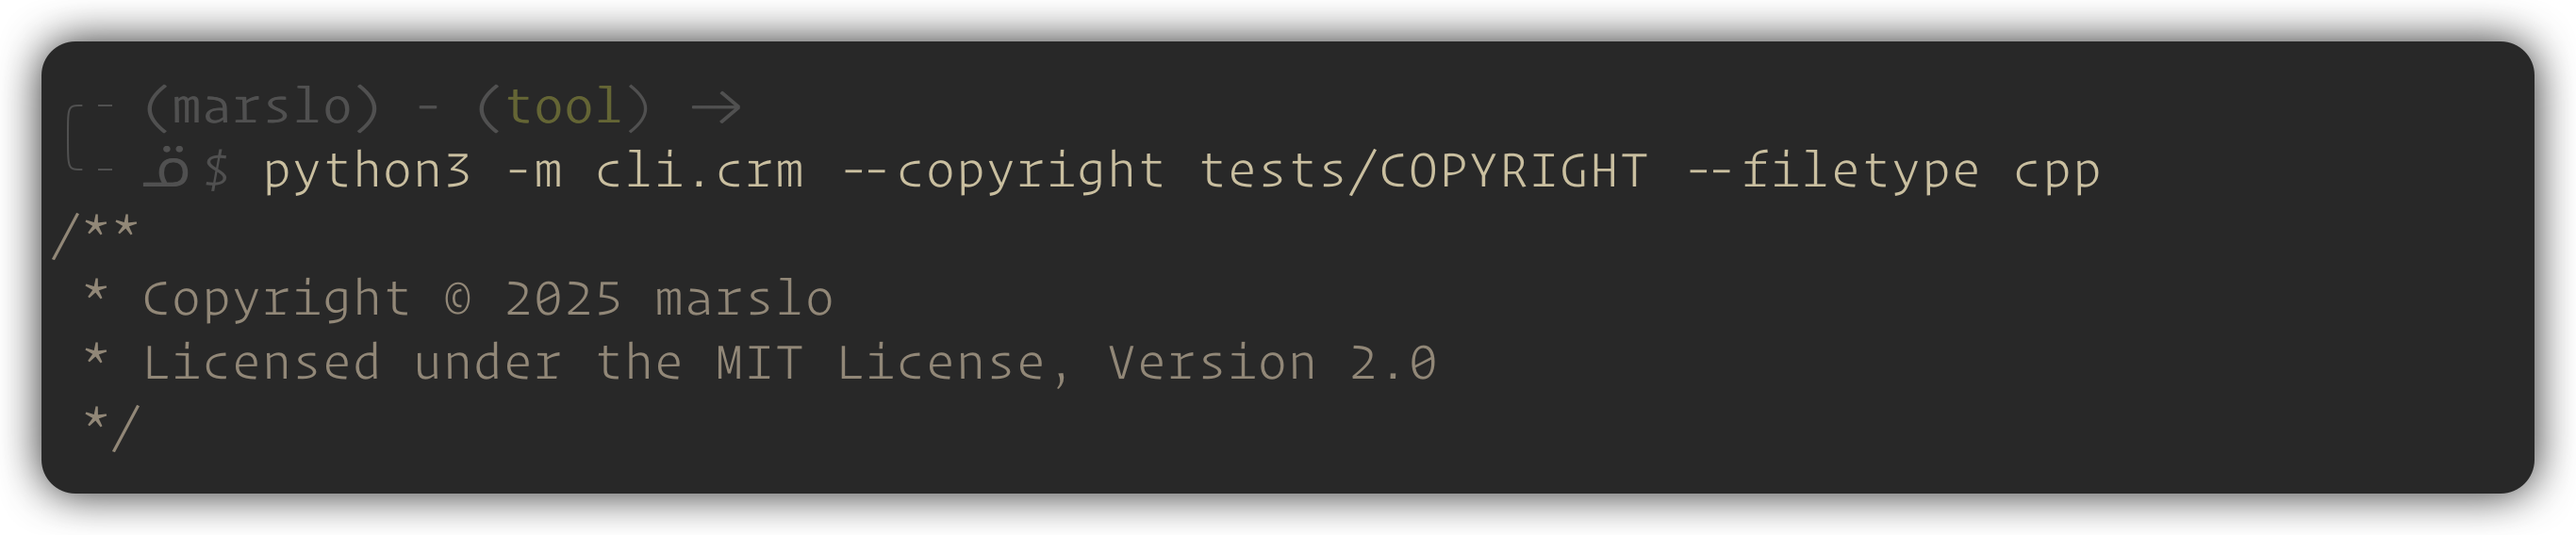
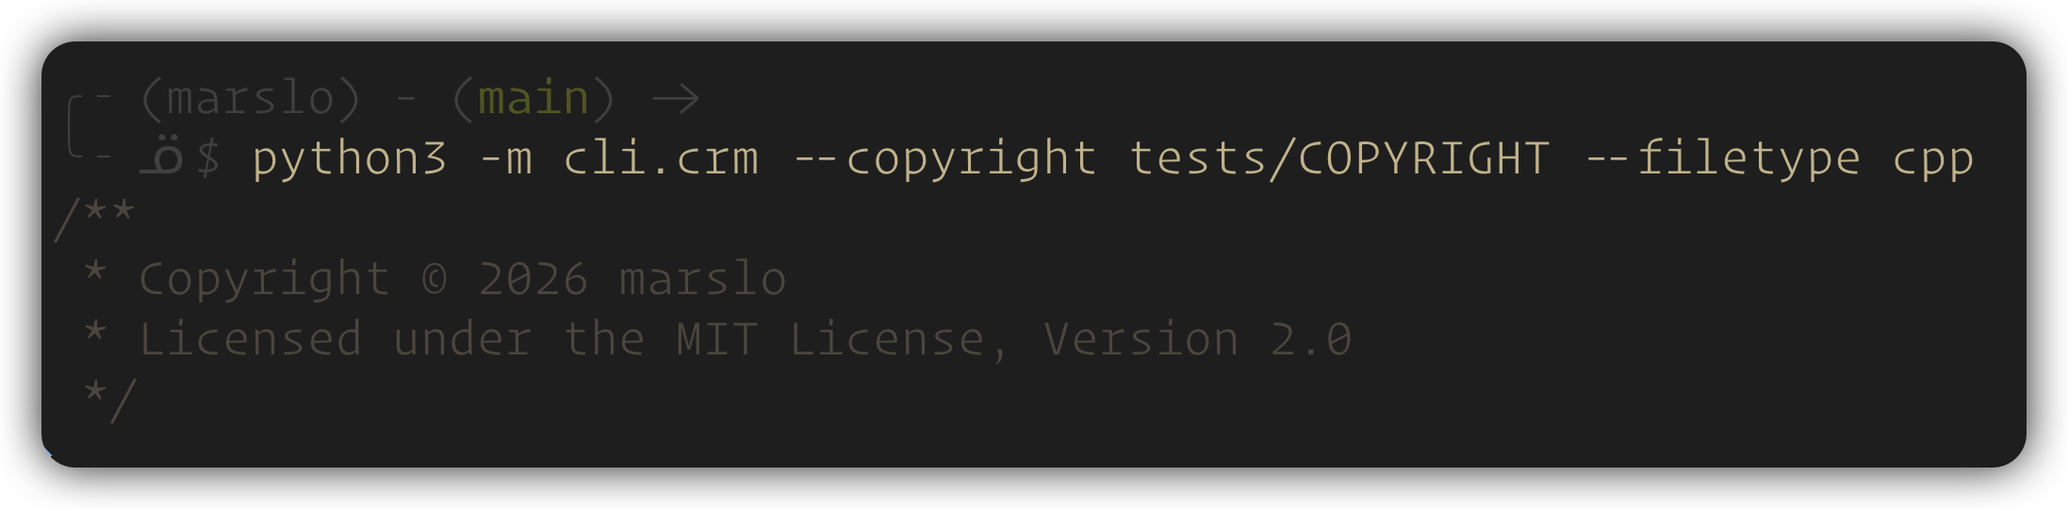
docs(readme): update README file, and upgraded the typo pre-commit hook version to `v1.43.3`

diff --git a/README.md b/README.md
@@ -55,15 +55,19 @@ A tool to automatically **add**, **update**, or **delete** multi-format copyrigh
 
 ## Install as Binary
 
--  pipx
-  > [!TIP]
-  > - pipx installation
-  >   ```bash
-  >   $ python3 -m pip install pipx
-  >   $ python3 -m pipx ensurepath
-  >   ```
+- pipx
+
+  <details>
+  <summary><b>how to install pipx ...</b></summary>
 
   ```bash
+  $ python3 -m pip install pipx
+  $ python3 -m pipx ensurepath
+  ```
+  </details>
+
+  ```bash
+  # install from source
   $ pipx install --force "git+https://github.com/marslo/cr-manager"
   # upgrade
   $ pipx upgrade cr-manager
@@ -73,12 +77,16 @@ A tool to automatically **add**, **update**, or **delete** multi-format copyrigh
 
 - pip
   ```bash
+  # install from pypi
   $ python3 -m pip install --user cr-manager
   # upgrade
   $ python3 -m pip install --user --upgrade cr-manager
   ```
 
 - linux/macos binary
+  <details>
+  <summary><b>Click to expand ...</b></summary>
+
   ```bash
   $ VERSION="$(curl -fsSL https://api.github.com/repos/marslo/cr-manager/releases/latest | jq -r .tag_name)"
 
@@ -90,49 +98,69 @@ A tool to automatically **add**, **update**, or **delete** multi-format copyrigh
   $ curl -fsSL -o cr-manager https://github.com/marslo/cr-manager/releases/download/${VERSION}/cr-manager-macos
   $ chmod +x cr-manager
   ```
+  </details>
 
 - windows binary
+
+  <details>
+  <summary><b>Click to expand ...</b></summary>
+
   ```bash
   > powershell -NoProfile -Command "$v=(Invoke-WebRequest -Uri 'https://api.github.com/repos/marslo/cr-manager/releases/latest' -UseBasicParsing | ConvertFrom-Json).tag_name; Invoke-WebRequest -Uri ('https://github.com/marslo/cr-manager/releases/download/'+$v+'/cr-manager.exe') -OutFile 'cr-manager.exe'; Write-Host ('Downloaded '+$v)"
   ```
+  </details>
+
 
 ## Install as pre-commit Hook
-```yaml
-# if `COPYRIGHT` file can be found in the root directory of this repository
----
-repos:
-  - repo: https://github.com/marslo/cr-manager
-    rev: v3.0.5
-    hooks:
-      - id: cr-manager
-        args: ["--update"]
-```
 
 ```yaml
 # specify the `COPYRIGHT` file to use, and only check specific files/folders
 ---
 repos:
   - repo: https://github.com/marslo/cr-manager
-    rev: v3.0.5
+    rev: v3.1.0
     hooks:
       - id: cr-manager
-        args: ["--update", "--copyright", "/path/to/COPYRIGHT"]
+        args: ["--update", "--copyright", "path/to/COPYRIGHT"]
         files: ^(jenkinsfile/|.*\.(groovy|py|sh)$)
 ```
+
+<details>
+<summary>if <code>COPYRIGHT</code> file can be found in the root directory of this repository</summary>
+
+```yaml
+# if `COPYRIGHT` file can be found in the root directory of this repository
+---
+repos:
+  - repo: https://github.com/marslo/cr-manager
+    rev: v3.1.0
+    hooks:
+      - id: cr-manager
+        args: ["--update"]
+```
+</details>
+
+
+<details>
+<summary>only check the copyright headers without modifying files after commit - <b>post-commit</b> check</summary>
 
 ```yaml
 # only check the copyright headers without modifying files after commit
 ---
 repos:
   - repo: https://github.com/marslo/cr-manager
-    rev: v3.0.5
+    rev: v3.1.0
     hooks:
       - id: cr-manager
         args: ["--check"]
         stages: [post-commit]
 ```
+</details>
 
 ## Install as Local Package
+
+<details>
+<summary><b>install from local source repo ...</b></summary>
 
 ```bash
 # clone the repo
@@ -147,6 +175,7 @@ $ python3 -m pip install --upgrade --user --editable .
 # or install via pipx
 $ pipx install --editable [--force] .
 ```
+</details>
 
 ---
 
@@ -173,20 +202,18 @@ $ pipx install --editable [--force] .
 |:---------------------------------------------:|:---------------------------:|
 | `python`, `shell`, `bash`, `sh`, `dockerfile` | `.py`, `.sh`, `.dockerfile` |
 
-```
+```bash
 # without venv
 $ poetry run cr-manager --filetype python
 
-# with venv
+# with venv or install as binary
 $ cr-manager --filetype python
-```
 
-result
-```
-#===============================================================================
-# Copyright © 2025 marslo                                                      #
+# result
+# ============================================================================ #
+# Copyright © 2026 marslo                                                      #
 # Licensed under the MIT License, Version 2.0                                  #
-#===============================================================================
+# ============================================================================ #
 ```
 
 ![Python](./screenshots/ft-py.png)
@@ -201,15 +228,13 @@ result
 # without venv
 $ poetry run cr-manager --filetype java
 
-# with venv
+# with venv or install as binary
 $ cr-manager --filetype groovy
-```
 
-result
-```
+# result
 /**
  *******************************************************************************
- * Copyright © 2025 marslo                                                     *
+ * Copyright © 2026 marslo                                                     *
  * Licensed under the MIT License, Version 2.0                                 *
  *******************************************************************************
 **/
@@ -227,14 +252,12 @@ result
 # without venv
 $ poetry run cr-manager --filetype c
 
-# with venv
+# with venv or install as binary
 $ cr-manager --filetype cpp
-```
 
-result
-```
+# result
 /**
- * Copyright © 2025 marslo
+ * Copyright © 2026 marslo
  * Licensed under the MIT License, Version 2.0
  */
 ```
@@ -289,7 +312,7 @@ $ cr-manager /path/to/file
 $ cr-manager --recursive /path/to/directory
 
 # add to non-supported suffixes with supplied filetype
-# -- e.e. add to .txt files as python files --
+# -- e.g. add to .txt files as python files --
 $ cr-manager --filetype python /path/to/file.txt
 ```
 
@@ -325,7 +348,7 @@ $ cr-manger --delete --recursive /path/to/directory
 # *add* without modifying files
 $ cr-manager --debug /path/to/file
 
-$ *update* without modifying files
+# *update* without modifying files
 $ cr-manager --update --debug /path/to/file
 
 # *delete* without modifying files

diff --git a/CONTRIBUTING.md b/CONTRIBUTING.md
@@ -102,12 +102,14 @@ $ git checkout -b feature/<short-description>
 
 | COMMAND                                | DESCRIPTION                                                                                                                           |
 |----------------------------------------|---------------------------------------------------------------------------------------------------------------------------------------|
-| `$ poetry run python -m cli.crm <cmd>` | requires `$ poetry install`                                                                                                           |
-| `$ python -m cli.crm <cmd>`            | requires `$ poetry install && source "$(poetry env info --path)/bin/activate"`                                                        |
-| `$ cr-manager <cmd>`                   | requires `$ poetry install && source "$(poetry env info --path)/bin/activate"`<br>or `pip install --user -e .`<br>or `pipx install .` |
+| `$ poetry run python -m cli.crm <cmd>` | `$ poetry install`                                                                                                           |
+| `$ python -m cli.crm <cmd>`            | `$ poetry install && source "$(poetry env info --path)/bin/activate"`                                                        |
+| `$ cr-manager <cmd>`                   | **choose any :**<ul><li>`$ poetry install && source "$(poetry env info --path)/bin/activate"`</li><li>`$ pip install --user -e .`</li><li>`$ pipx install .`</li></ul> |
 
 
-1. install Poetry if you haven't already:
+1. install Poetry if necessary:
+   <details>
+   <summary>click for details ...</summary>
 
    | ENVIRONMENT | COMMAND                                                                                       |
    |-------------|-----------------------------------------------------------------------------------------------|
@@ -126,6 +128,8 @@ $ git checkout -b feature/<short-description>
    # or
    $ python -m pip install --user poetry
    ```
+   </details>
+
 
 2. Install dependencies:
 
@@ -133,23 +137,30 @@ $ git checkout -b feature/<short-description>
    > 1. create a virtual environment in the current directory
    > 2. install the `cr-manager` package and its dependencies
 
-
    ```bash
    $ poetry install
    ```
 
-   - clean up the poetry environment
-     ```bash
-     $ poetry env remove python
-     # - or -
-     $ poetry env remove --all
+   <details>
+   <summary><b>how to clean up the poetry environment</b></summary>
 
-     # clear cache
-     $ poetry cache clear pypi --all
-     $ poetry cache clear virtualenvs --all
-     ```
+   ```bash
+   $ poetry env remove python
+   # - or -
+   $ poetry env remove --all
+
+   # clear cache
+   $ poetry cache clear pypi --all
+   $ poetry cache clear virtualenvs --all
+   ```
+   </details>
+
 
 3. Activate the virtual environment:
+
+   ```bash
+   $ source "$(poetry env info --path)/bin/activate"
+   ```
 
    - run in the poetry environment
 
@@ -159,17 +170,19 @@ $ git checkout -b feature/<short-description>
 
    - run in the virtual environment
 
-     > - to show/check the current venv:
-     >   ```bash
-     >   $ echo "${VIRTUAL_ENV}"
-     >   /Users/marslo/Library/Caches/pypoetry/virtualenvs/cr-manager-Uc1EBq6P-py3.13
-     >   ```
-     >
-     > - to show the package in current venv
-     >   ```bash
-     >   $ which -a cr-manager
-     >   ~/Library/Caches/pypoetry/virtualenvs/cr-manager-Uc1EBq6P-py3.13/bin/cr-manager
-     >   ```
+     <details>
+     <summary>about <code>${VIRTUAL_ENV}</code></summary>
+
+     ```bash
+     # to show/check the current venv:
+     $ echo "${VIRTUAL_ENV}"
+     ~/Library/Caches/pypoetry/virtualenvs/cr-manager-Uc1EBq6P-py3.13
+
+     # to show the package in current venv
+     $ which -a cr-manager
+     ~/Library/Caches/pypoetry/virtualenvs/cr-manager-Uc1EBq6P-py3.13/bin/cr-manager
+     ```
+     </details>
 
      ```bash
      # to activate the virtual environment
@@ -200,4 +213,12 @@ $ git rebase main
    $ git push origin feature/<your-branch>
    ```
 
-2. Go to the original repo on GitHub, you should see a prompt to open a PR from your branch.
+2. Go to the original repo on GitHub, you should see a prompt to open a PR from your branch, or using GH CLI:
+
+   ```bash
+   # with gh cli
+   $ gh pr create --base main \
+                  --head feature/<your-branch> \
+                  --title "<title>" \
+                  --body "<description>" \
+   ```

diff --git a/README.PYPI.md b/README.PYPI.md
@@ -94,14 +94,10 @@ $ cr-manager --delete --debug /path/to/file
 
 ```
 $ cr-manager --filetype python
-```
-
-result
-```
-#===============================================================================
-# Copyright © 2025 marslo                                                      #
+# ============================================================================ #
+# Copyright © 2026 marslo                                                      #
 # Licensed under the MIT License, Version 2.0                                  #
-#===============================================================================
+# ============================================================================ #
 ```
 
 ![Python](https://github.com/marslo/cr-manager/raw/main/screenshots/ft-py.png)
@@ -114,13 +110,9 @@ result
 
 ```
 $ cr-manager --filetype groovy
-```
-
-result
-```
 /**
  *******************************************************************************
- * Copyright © 2025 marslo                                                     *
+ * Copyright © 2026 marslo                                                     *
  * Licensed under the MIT License, Version 2.0                                 *
  *******************************************************************************
 **/
@@ -136,12 +128,8 @@ result
 
 ```
 $ cr-manager --filetype cpp
-```
-
-result
-```
 /**
- * Copyright © 2025 marslo
+ * Copyright © 2026 marslo
  * Licensed under the MIT License, Version 2.0
  */
 ```
@@ -168,7 +156,7 @@ repos:
 ---
 repos:
   - repo: https://github.com/marslo/cr-manager
-    rev: v3.0.5
+    rev: v3.1.0
     hooks:
       - id: cr-manager
         args: ["--update", "--copyright", "/path/to/COPYRIGHT"]
@@ -180,7 +168,7 @@ repos:
 ---
 repos:
   - repo: https://github.com/marslo/cr-manager
-    rev: v3.0.5
+    rev: v3.1.0
     hooks:
       - id: cr-manager
         args: ["--check"]
